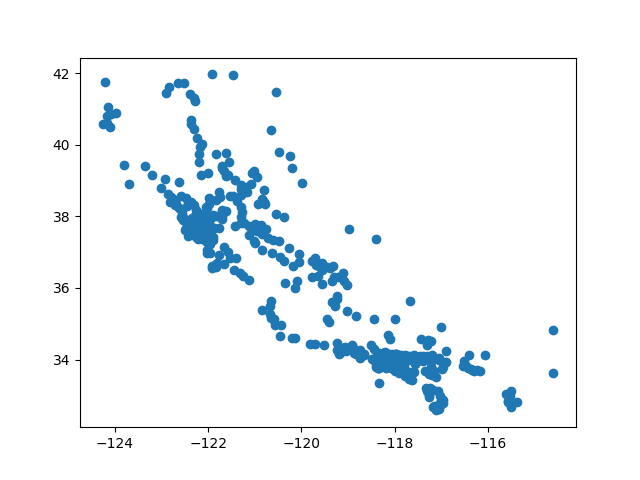
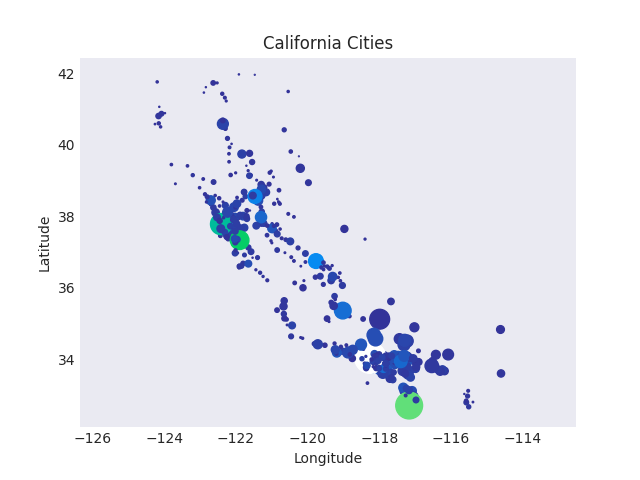
11/7

diff --git a/scatterplots.py b/scatterplots.py
@@ -1,5 +1,9 @@
 import pandas as pd
 from matplotlib import pyplot as plt
+from sklearn.datasets import load_iris
+
+plt.style.use('seaborn-v0_8-dark')
+print(plt.style.available)
 
 # Read CSV file into Pandas DataFrame
 cities = pd.read_csv('california_cities.csv')
@@ -8,11 +12,29 @@ print(cities.info()) # look at columns, dtypes, entries
 # Extract data columns for our scatterplot
 latitudes = cities['latd'] # y values
 longitudes = cities['longd'] # x values
-populations = cities['population_total']
-area = cities['area_total_sq_mi']
+populations = cities['population_total'] # feature shown by color
+area = cities['area_total_sq_mi'] # feature shown by SIZE of dots
 
 # Generate scatterplot (each city row is a dot)
-plt.scatter(longitudes, latitudes)
+# plt.scatter(longitudes, latitudes)
+plt.scatter(longitudes, latitudes, s=area, c=populations, cmap='terrain')
+
+# Customize the appearance of the plot
+plt.title('California Cities')
+plt.xlabel('Longitude')
+plt.ylabel('Latitude')
+plt.axis('equal') # useful for map data
 
 plt.savefig('scatter-cities.png')
 plt.close()
+
+# Scatterplot from Iris dataset (machine learning)
+iris = load_iris()
+print(iris) # 'feature_names': ['sepal length (cm)', 'sepal width (cm)', 'petal length (cm)', 'petal width (cm)']
+features = iris.data.T # transpose (switch rows and cols)
+
+plt.scatter(features[0], features[1], c=iris.target, cmap='viridis', alpha=0.5, s=features[3]*100)
+# Use column names as labels
+plt.xlabel(iris.feature_names[0])
+plt.ylabel(iris.feature_names[1])
+plt.savefig('scatter-iris.png')
